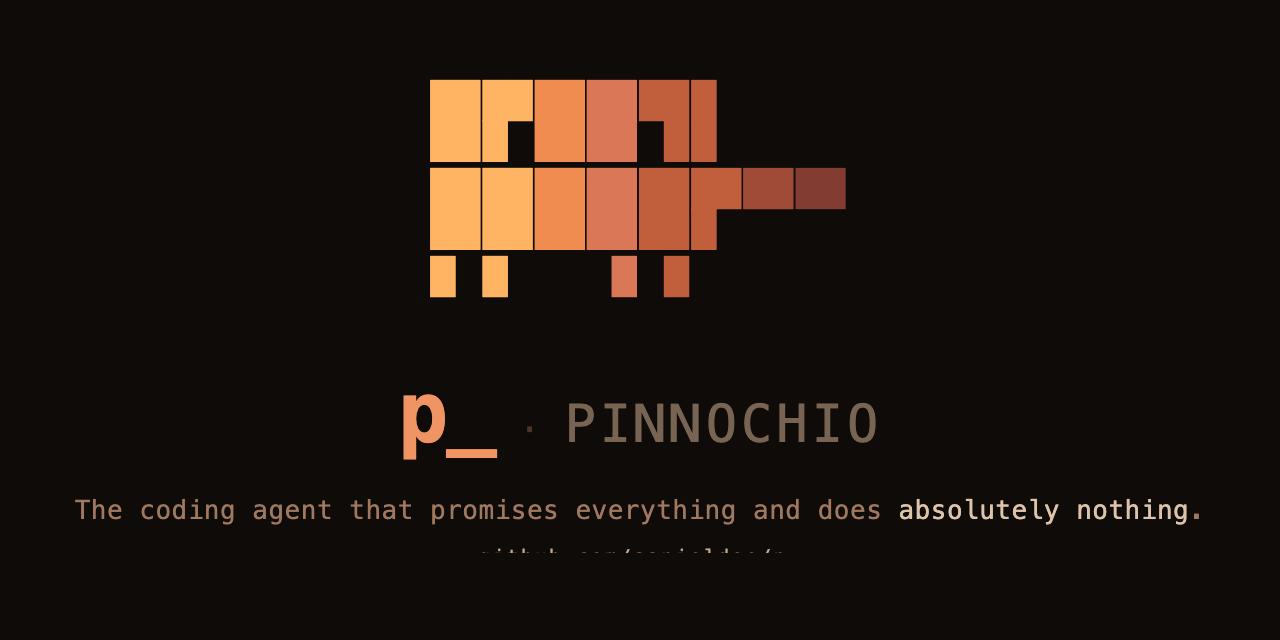
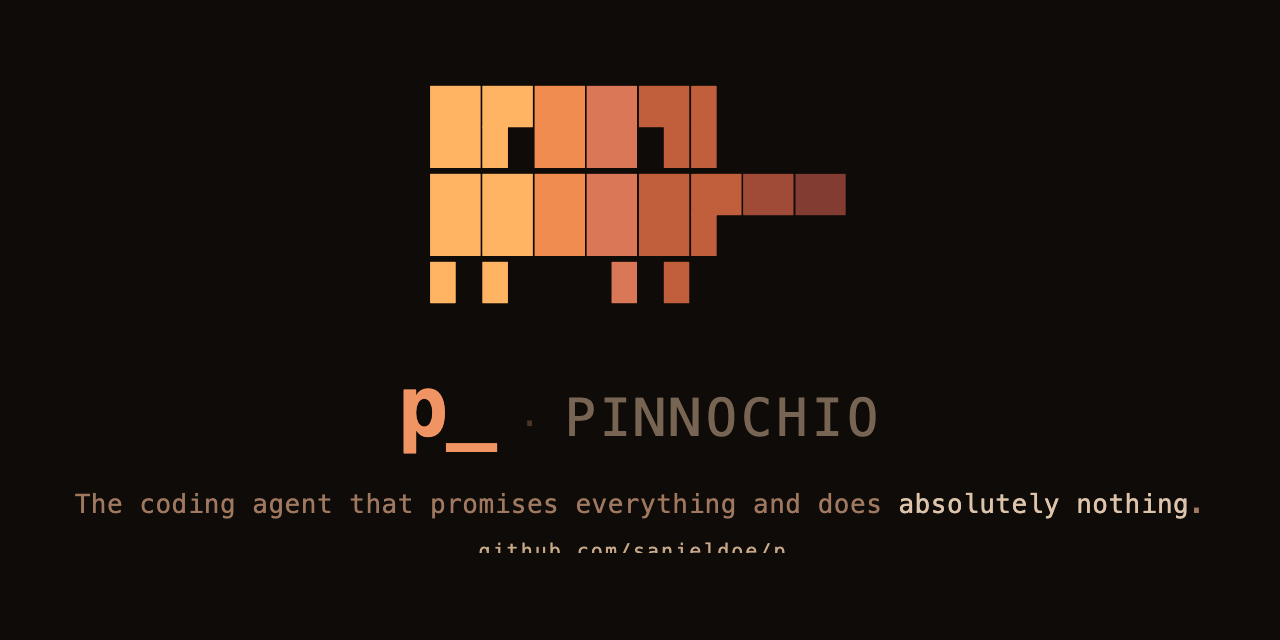
Reduce mascot gap by 12px more (now 24px) for visual balance

diff --git a/demo/social-card.html b/demo/social-card.html
@@ -22,7 +22,7 @@
     line-height: 1.1;
     letter-spacing: 4px;
     white-space: pre;
-    margin-bottom: 36px;
+    margin-bottom: 24px;
   }
 
   .text-group {
